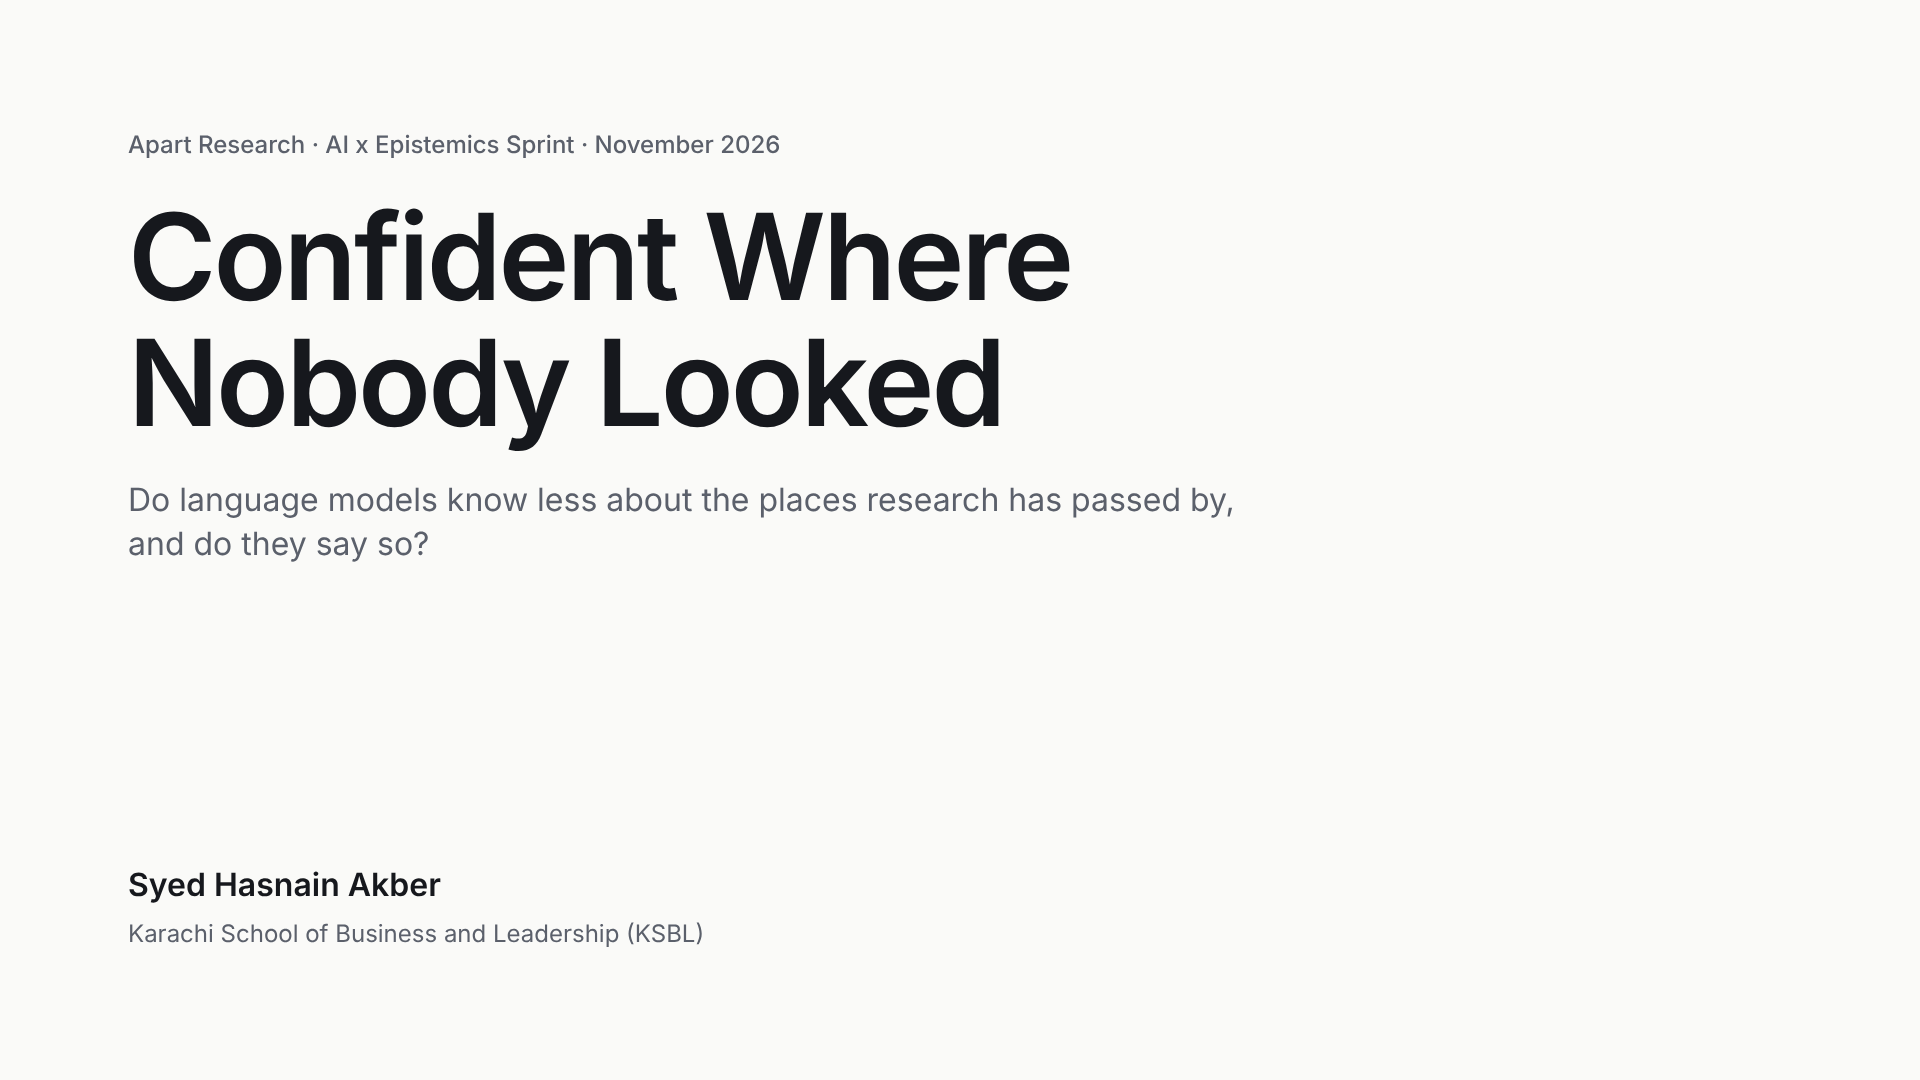
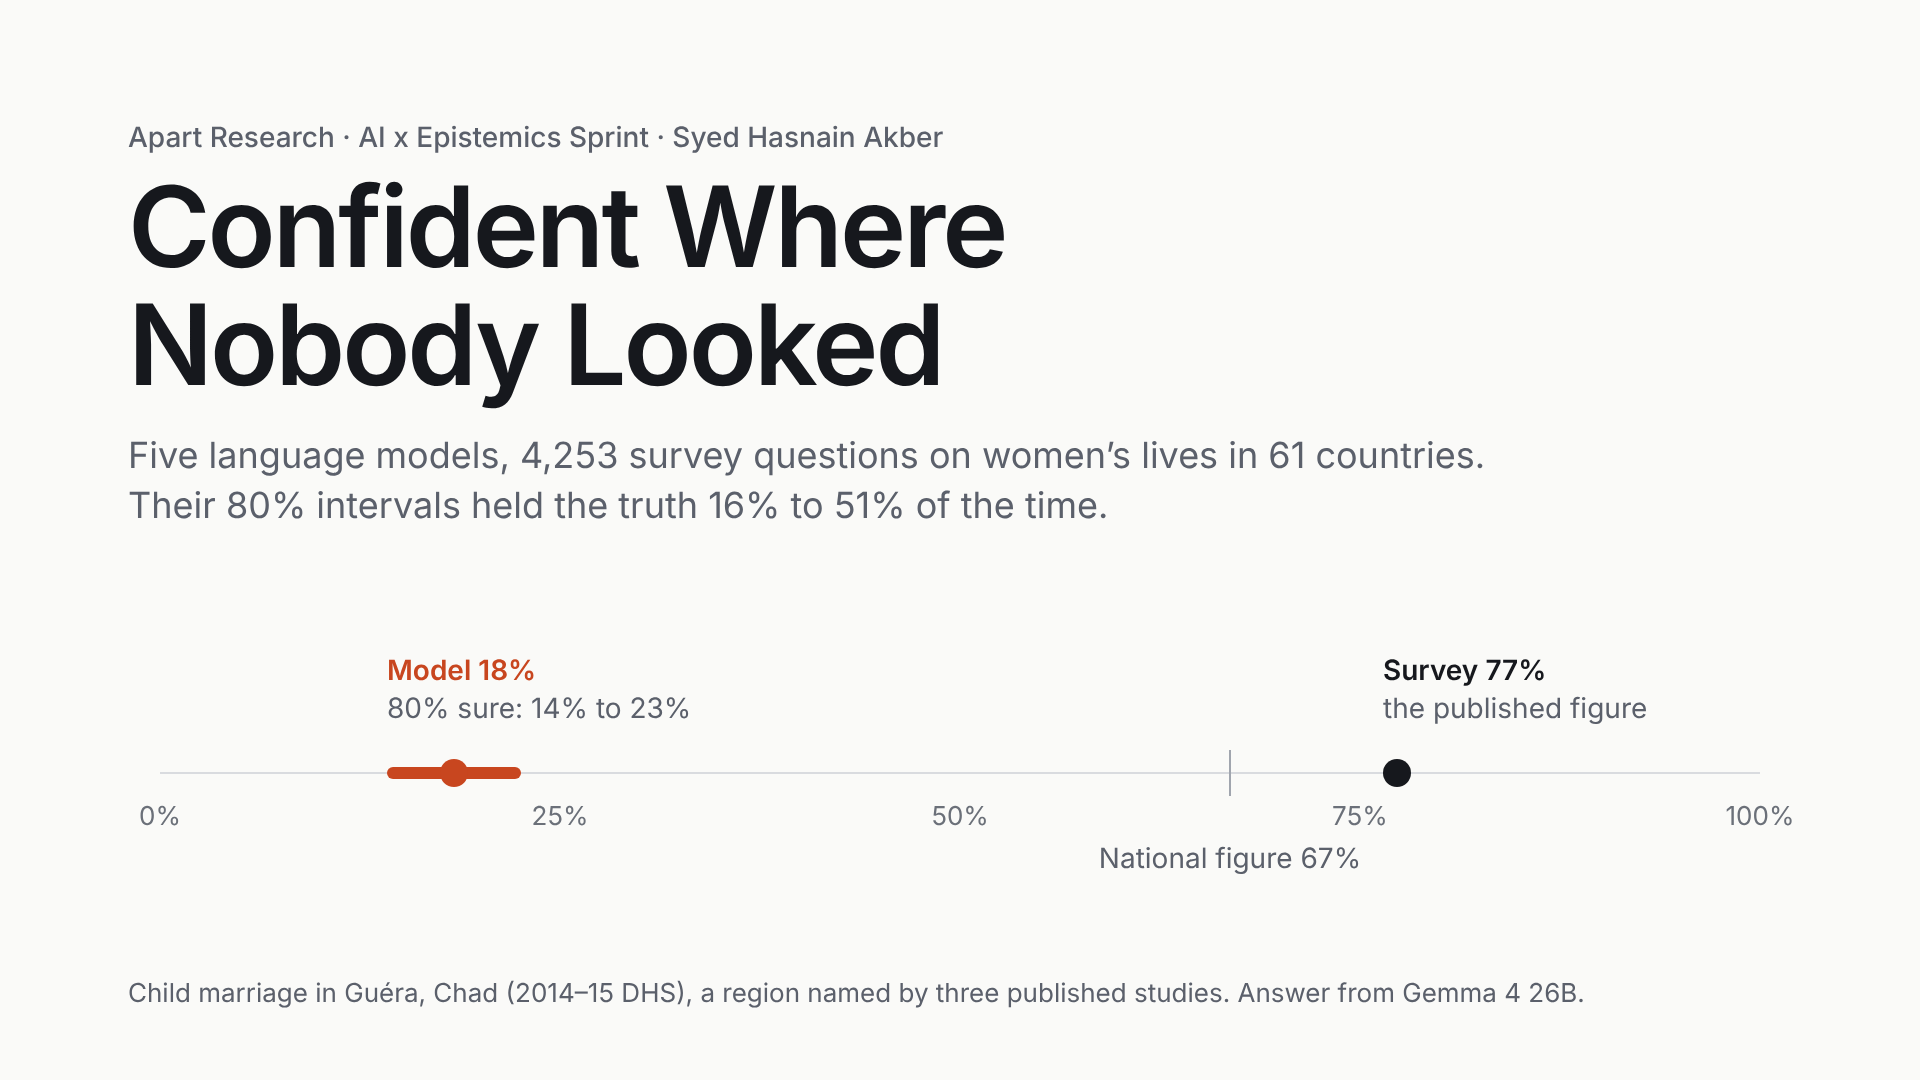
Thin-evidence: project image with the headline example
Claude-Session: https://claude.ai/code/session_018F3JuTh68yc1rV2ib3pkhJ

diff --git a/climate-digest/projects/thin-evidence/report/project_image.html b/climate-digest/projects/thin-evidence/report/project_image.html
@@ -1,0 +1,44 @@
+<!doctype html>
+<html><head><meta charset="utf-8">
+<style>
+* { margin: 0; box-sizing: border-box; }
+body { width: 1920px; height: 1080px; background: #FAFAF8; font-family: 'Inter', Arial, sans-serif; color: #16181D; position: relative; overflow: hidden; }
+.label { position: absolute; left: 128px; top: 120px; font-size: 28px; font-weight: 500; color: #5B606B; }
+h1 { position: absolute; left: 128px; top: 168px; width: 1600px; font-size: 112px; font-weight: 600; line-height: 1.05; letter-spacing: -3px; }
+.sub { position: absolute; left: 128px; top: 430px; width: 1400px; font-size: 36px; line-height: 1.4; color: #5B606B; }
+.chart { position: absolute; left: 128px; top: 640px; width: 1664px; height: 260px; }
+.base { position: absolute; left: 32px; top: 132px; width: 1600px; height: 2px; background: #D9DBDF; }
+.span { position: absolute; left: 259px; top: 127px; width: 134px; height: 12px; border-radius: 6px; background: #C8461F; }
+.est { position: absolute; left: 312px; top: 119px; width: 28px; height: 28px; border-radius: 50%; background: #C8461F; }
+.truth { position: absolute; left: 1255px; top: 119px; width: 28px; height: 28px; border-radius: 50%; background: #16181D; }
+.ref { position: absolute; left: 1101px; top: 110px; width: 2px; height: 46px; background: #A0A5AE; }
+.t { position: absolute; font-size: 28px; line-height: 1.3; }
+.m { color: #C8461F; font-weight: 600; }
+.s { color: #16181D; font-weight: 600; }
+.g { color: #5B606B; }
+.ax { position: absolute; top: 160px; width: 80px; text-align: center; font-size: 26px; color: #6B7079; }
+.foot { position: absolute; left: 128px; bottom: 72px; font-size: 26px; color: #5B606B; }
+</style></head>
+<body>
+<p class="label">Apart Research · AI x Epistemics Sprint · Syed Hasnain Akber</p>
+<h1>Confident Where<br>Nobody Looked</h1>
+<p class="sub">Five language models, 4,253 survey questions on women’s lives in 61 countries. Their 80% intervals held the truth 16% to 51% of the time.</p>
+<div class="chart">
+  <div class="base"></div>
+  <div class="span"></div>
+  <div class="est"></div>
+  <div class="ref"></div>
+  <div class="truth"></div>
+  <p class="t m" style="left:259px; top:12px;">Model 18%</p>
+  <p class="t g" style="left:259px; top:50px;">80% sure: 14% to 23%</p>
+  <p class="t s" style="left:1255px; top:12px;">Survey 77%</p>
+  <p class="t g" style="left:1255px; top:50px;">the published figure</p>
+  <p class="t g" style="left:952px; top:200px; width:300px; text-align:center;">National figure 67%</p>
+  <p class="ax" style="left:-8px;">0%</p>
+  <p class="ax" style="left:392px;">25%</p>
+  <p class="ax" style="left:792px;">50%</p>
+  <p class="ax" style="left:1192px;">75%</p>
+  <p class="ax" style="left:1592px;">100%</p>
+</div>
+<p class="foot">Child marriage in Guéra, Chad (2014–15 DHS), a region named by three published studies. Answer from Gemma 4 26B.</p>
+</body></html>
